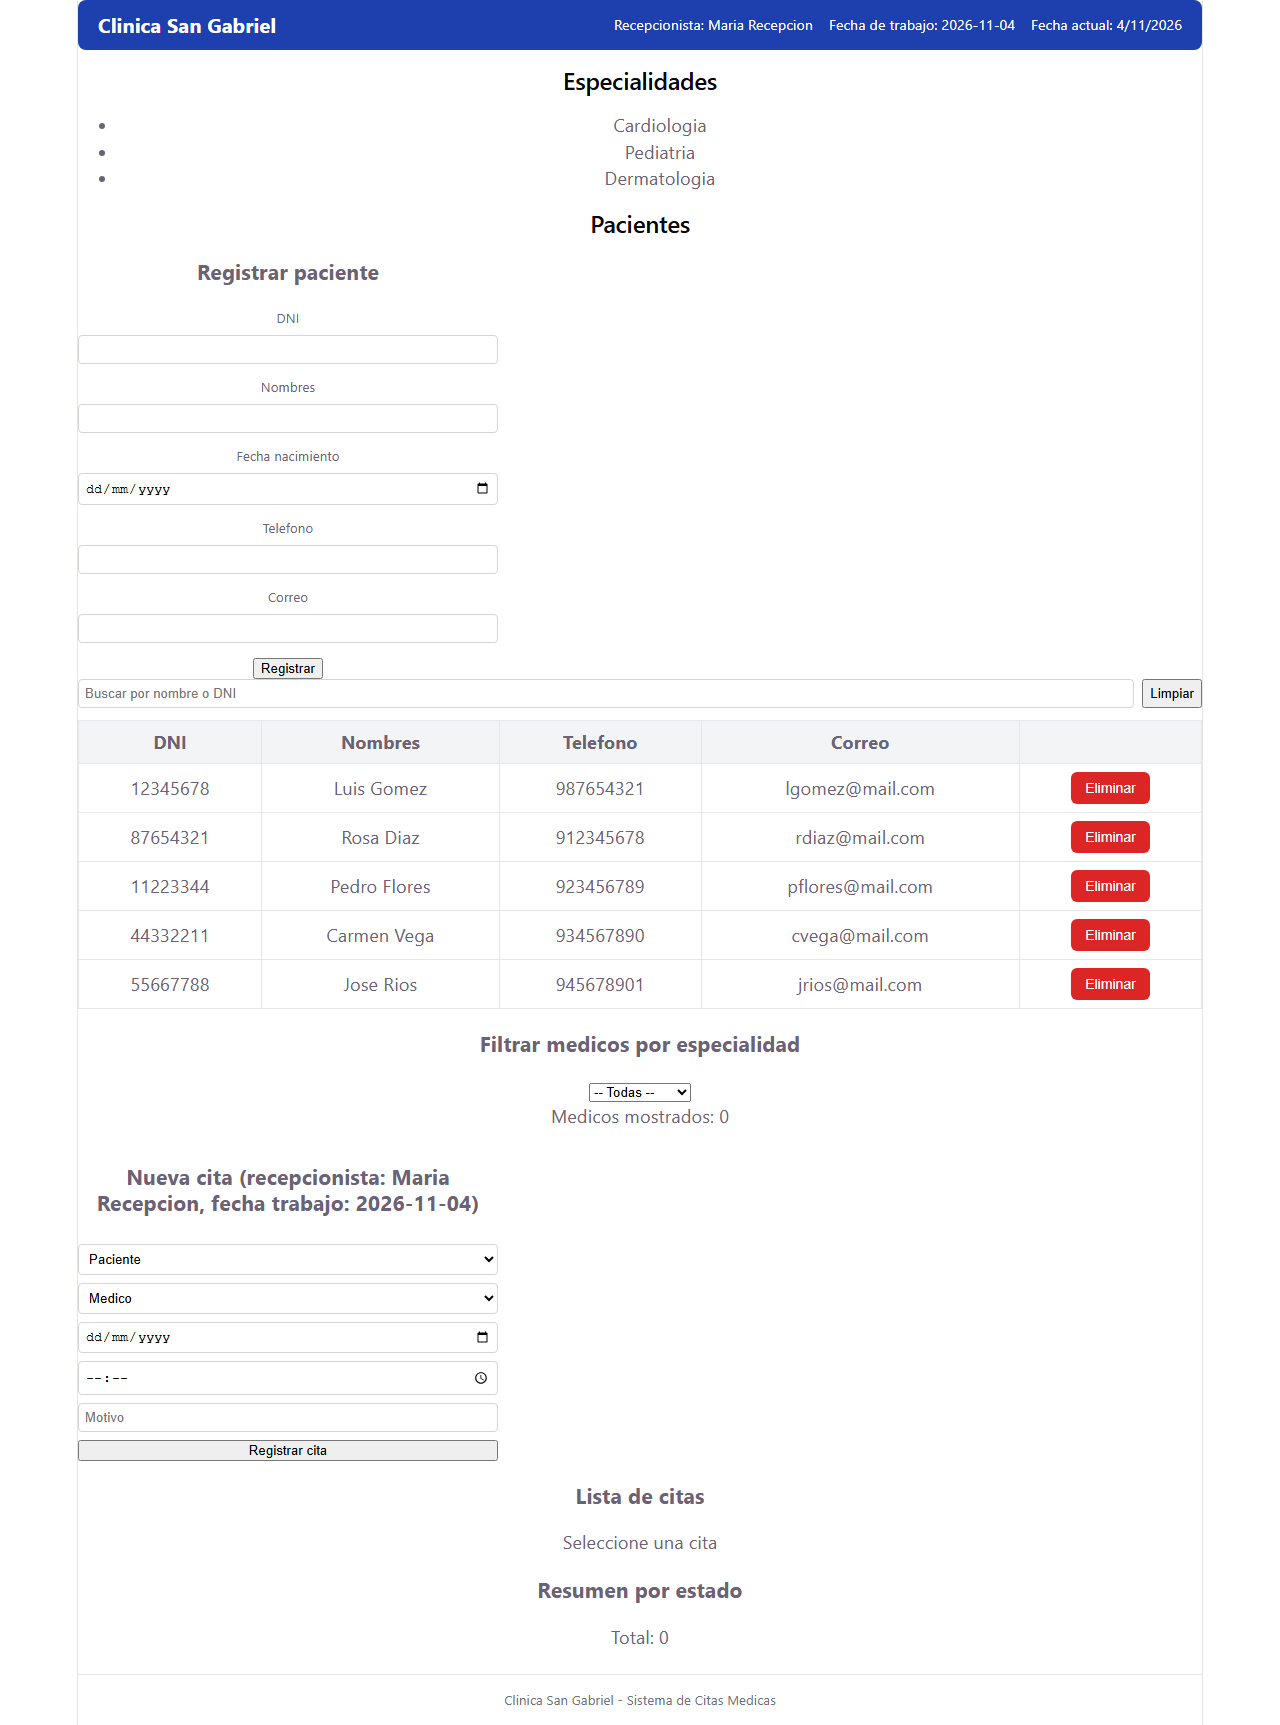
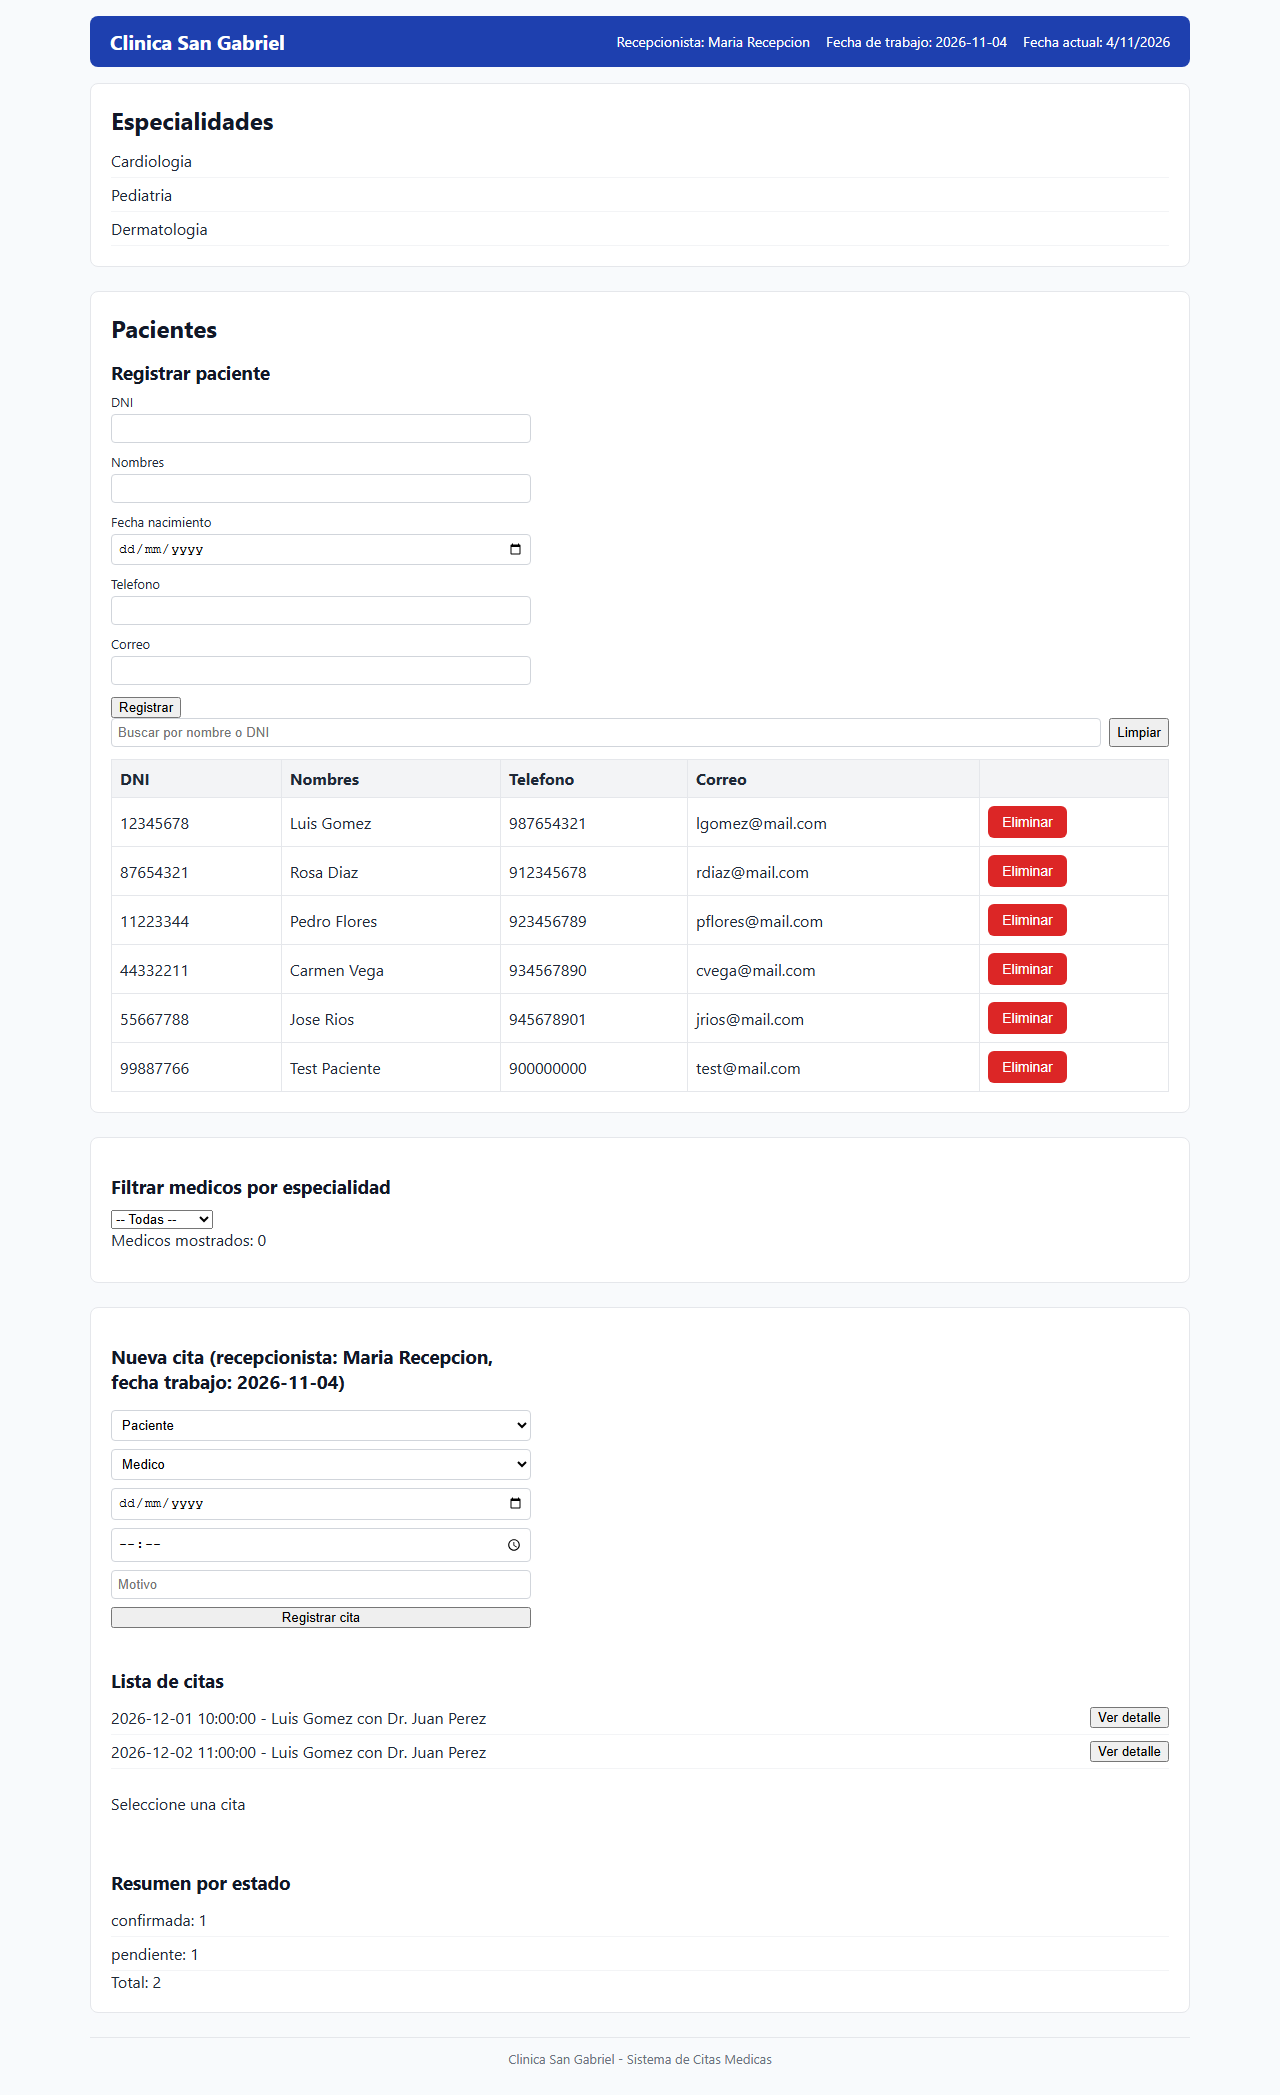
Corregir estilos del frontend y actualizar capturas

diff --git a/clinica-frontend/src/App.css b/clinica-frontend/src/App.css
@@ -1,184 +1,42 @@
-.counter {
-  font-size: 16px;
-  padding: 5px 10px;
-  border-radius: 5px;
-  color: var(--accent);
-  background: var(--accent-bg);
-  border: 2px solid transparent;
-  transition: border-color 0.3s;
-  margin-bottom: 24px;
-
-  &:hover {
-    border-color: var(--accent-border);
-  }
-  &:focus-visible {
-    outline: 2px solid var(--accent);
-    outline-offset: 2px;
-  }
-}
-
-.hero {
-  position: relative;
-
-  .base,
-  .framework,
-  .vite {
-    inset-inline: 0;
-    margin: 0 auto;
-  }
-
-  .base {
-    width: 170px;
-    position: relative;
-    z-index: 0;
-  }
-
-  .framework,
-  .vite {
-    position: absolute;
-  }
-
-  .framework {
-    z-index: 1;
-    top: 34px;
-    height: 28px;
-    transform: perspective(2000px) rotateZ(300deg) rotateX(44deg) rotateY(39deg)
-      scale(1.4);
-  }
-
-  .vite {
-    z-index: 0;
-    top: 107px;
-    height: 26px;
-    width: auto;
-    transform: perspective(2000px) rotateZ(300deg) rotateX(40deg) rotateY(39deg)
-      scale(0.8);
-  }
-}
-
-#center {
+.contenedor {
   display: flex;
   flex-direction: column;
-  gap: 25px;
-  place-content: center;
-  place-items: center;
-  flex-grow: 1;
-
-  @media (max-width: 1024px) {
-    padding: 32px 20px 24px;
-    gap: 18px;
-  }
+  gap: 24px;
 }
 
-#next-steps {
-  display: flex;
-  border-top: 1px solid var(--border);
+.contenedor section {
+  background: white;
+  border: 1px solid #e5e7eb;
+  border-radius: 8px;
+  padding: 20px;
   text-align: left;
-
-  & > div {
-    flex: 1 1 0;
-    padding: 32px;
-    @media (max-width: 1024px) {
-      padding: 24px 20px;
-    }
-  }
-
-  .icon {
-    margin-bottom: 16px;
-    width: 22px;
-    height: 22px;
-  }
-
-  @media (max-width: 1024px) {
-    flex-direction: column;
-    text-align: center;
-  }
+  width: 100%;
+  box-sizing: border-box;
 }
 
-#docs {
-  border-right: 1px solid var(--border);
-
-  @media (max-width: 1024px) {
-    border-right: none;
-    border-bottom: 1px solid var(--border);
-  }
+.contenedor section h2 {
+  margin-top: 0;
+  text-align: left;
 }
 
-#next-steps ul {
+.contenedor ul {
   list-style: none;
   padding: 0;
-  display: flex;
-  gap: 8px;
-  margin: 32px 0 0;
-
-  .logo {
-    height: 18px;
-  }
-
-  a {
-    color: var(--text-h);
-    font-size: 16px;
-    border-radius: 6px;
-    background: var(--social-bg);
-    display: flex;
-    padding: 6px 12px;
-    align-items: center;
-    gap: 8px;
-    text-decoration: none;
-    transition: box-shadow 0.3s;
-
-    &:hover {
-      box-shadow: var(--shadow);
-    }
-    .button-icon {
-      height: 18px;
-      width: 18px;
-    }
-  }
-
-  @media (max-width: 1024px) {
-    margin-top: 20px;
-    flex-wrap: wrap;
-    justify-content: center;
-
-    li {
-      flex: 1 1 calc(50% - 8px);
-    }
-
-    a {
-      width: 100%;
-      justify-content: center;
-      box-sizing: border-box;
-    }
-  }
+  margin: 0;
 }
 
-#spacer {
-  height: 88px;
-  border-top: 1px solid var(--border);
-  @media (max-width: 1024px) {
-    height: 48px;
-  }
+.contenedor li {
+  padding: 6px 0;
+  border-bottom: 1px solid #f3f4f6;
 }
 
-.ticks {
-  position: relative;
-  width: 100%;
+.error { color: #dc2626; }
 
-  &::before,
-  &::after {
-    content: '';
-    position: absolute;
-    top: -4.5px;
-    border: 5px solid transparent;
-  }
+.lista-citas { list-style: none; padding: 0; }
+.item-cita { display: flex; justify-content: space-between; align-items: center; padding: 8px 0; border-bottom: 1px solid #f3f4f6; }
 
-  &::before {
-    left: 0;
-    border-left-color: var(--border);
-  }
-  &::after {
-    right: 0;
-    border-right-color: var(--border);
-  }
-}
+.detalle { background: #f9fafb; padding: 12px; border-radius: 6px; margin-top: 12px; }
+.detalle .acciones { display: flex; gap: 8px; margin-top: 10px; flex-wrap: wrap; }
+
+.resumen { margin-top: 16px; }
+.pagina-citas { display: flex; flex-direction: column; gap: 24px; }

diff --git a/clinica-frontend/src/index.css b/clinica-frontend/src/index.css
@@ -1,53 +1,7 @@
 :root {
-  --text: #6b6375;
-  --text-h: #08060d;
-  --bg: #fff;
-  --border: #e5e4e7;
-  --code-bg: #f4f3ec;
-  --accent: #aa3bff;
-  --accent-bg: rgba(170, 59, 255, 0.1);
-  --accent-border: rgba(170, 59, 255, 0.5);
-  --social-bg: rgba(244, 243, 236, 0.5);
-  --shadow:
-    rgba(0, 0, 0, 0.1) 0 10px 15px -3px, rgba(0, 0, 0, 0.05) 0 4px 6px -2px;
-
-  --sans: system-ui, 'Segoe UI', Roboto, sans-serif;
-  --heading: system-ui, 'Segoe UI', Roboto, sans-serif;
-  --mono: ui-monospace, Consolas, monospace;
-
-  font: 18px/145% var(--sans);
-  letter-spacing: 0.18px;
-  color-scheme: light dark;
-  color: var(--text);
-  background: var(--bg);
-  font-synthesis: none;
-  text-rendering: optimizeLegibility;
-  -webkit-font-smoothing: antialiased;
-  -moz-osx-font-smoothing: grayscale;
-
-  @media (max-width: 1024px) {
-    font-size: 16px;
-  }
-}
-
-@media (prefers-color-scheme: dark) {
-  :root {
-    --text: #9ca3af;
-    --text-h: #f3f4f6;
-    --bg: #16171d;
-    --border: #2e303a;
-    --code-bg: #1f2028;
-    --accent: #c084fc;
-    --accent-bg: rgba(192, 132, 252, 0.15);
-    --accent-border: rgba(192, 132, 252, 0.5);
-    --social-bg: rgba(47, 48, 58, 0.5);
-    --shadow:
-      rgba(0, 0, 0, 0.4) 0 10px 15px -3px, rgba(0, 0, 0, 0.25) 0 4px 6px -2px;
-  }
-
-  #social .button-icon {
-    filter: invert(1) brightness(2);
-  }
+  font-family: system-ui, 'Segoe UI', Roboto, sans-serif;
+  color: #1f2937;
+  background: #f8fafc;
 }
 
 body {
@@ -55,57 +9,14 @@ body {
 }
 
 #root {
-  width: 1126px;
-  max-width: 100%;
+  max-width: 1100px;
   margin: 0 auto;
-  text-align: center;
-  border-inline: 1px solid var(--border);
-  min-height: 100svh;
-  display: flex;
-  flex-direction: column;
-  box-sizing: border-box;
+  padding: 16px;
 }
 
-h1,
-h2 {
-  font-family: var(--heading);
-  font-weight: 500;
-  color: var(--text-h);
+h1, h2, h3 {
+  color: #111827;
+  margin: 16px 0 8px;
 }
 
-h1 {
-  font-size: 56px;
-  letter-spacing: -1.68px;
-  margin: 32px 0;
-  @media (max-width: 1024px) {
-    font-size: 36px;
-    margin: 20px 0;
-  }
-}
-h2 {
-  font-size: 24px;
-  line-height: 118%;
-  letter-spacing: -0.24px;
-  margin: 0 0 8px;
-  @media (max-width: 1024px) {
-    font-size: 20px;
-  }
-}
-p {
-  margin: 0;
-}
-
-code,
-.counter {
-  font-family: var(--mono);
-  display: inline-flex;
-  border-radius: 4px;
-  color: var(--text-h);
-}
-
-code {
-  font-size: 15px;
-  line-height: 135%;
-  padding: 4px 8px;
-  background: var(--code-bg);
-}
+p { margin: 0; }
